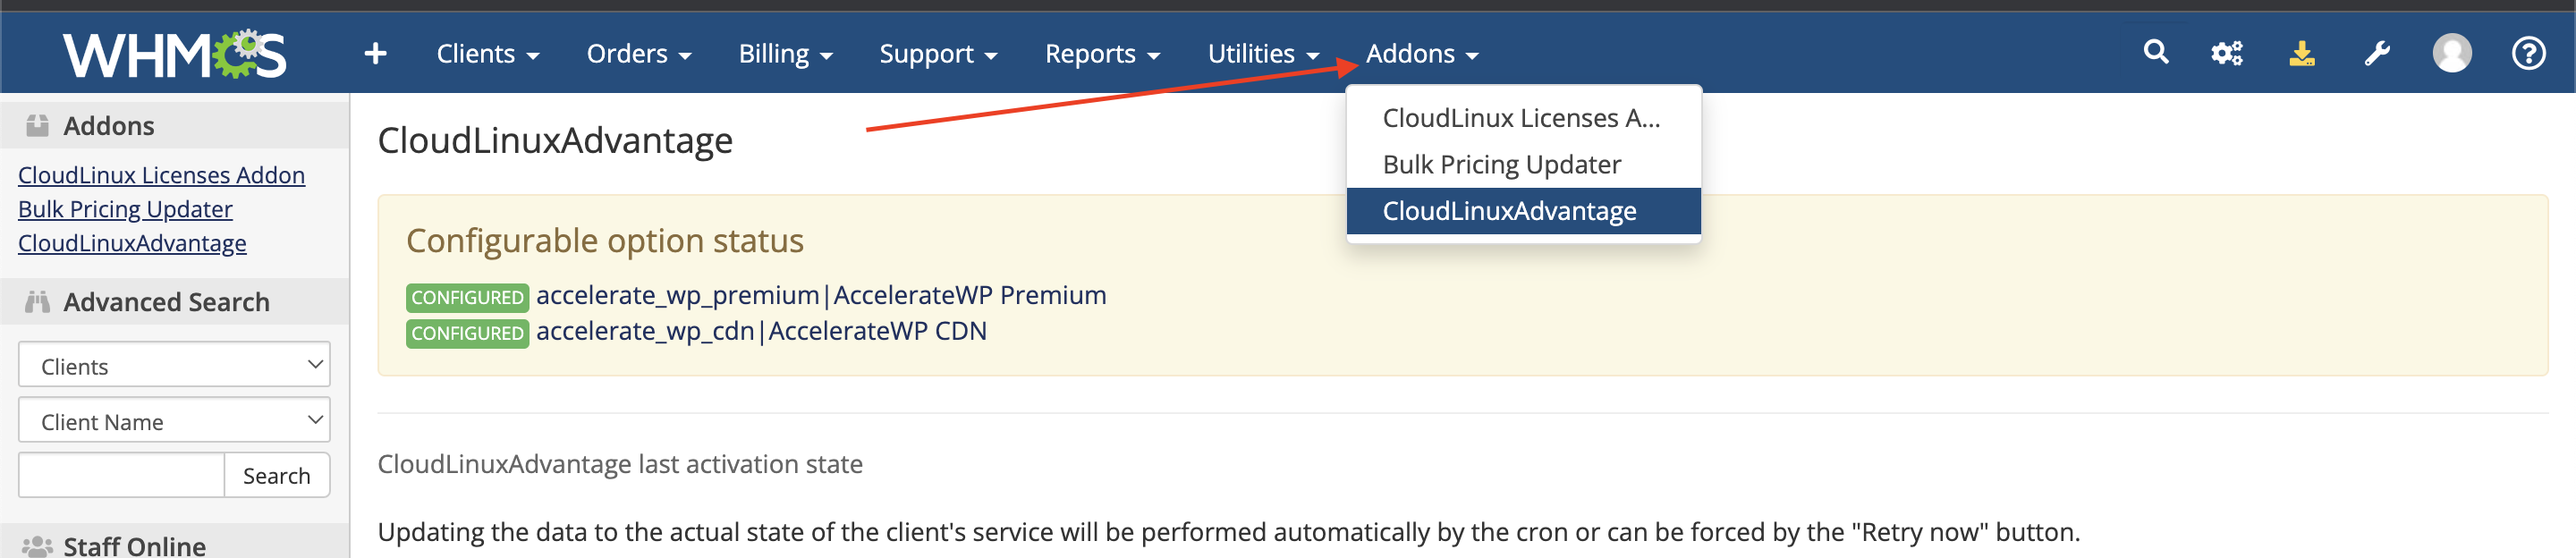
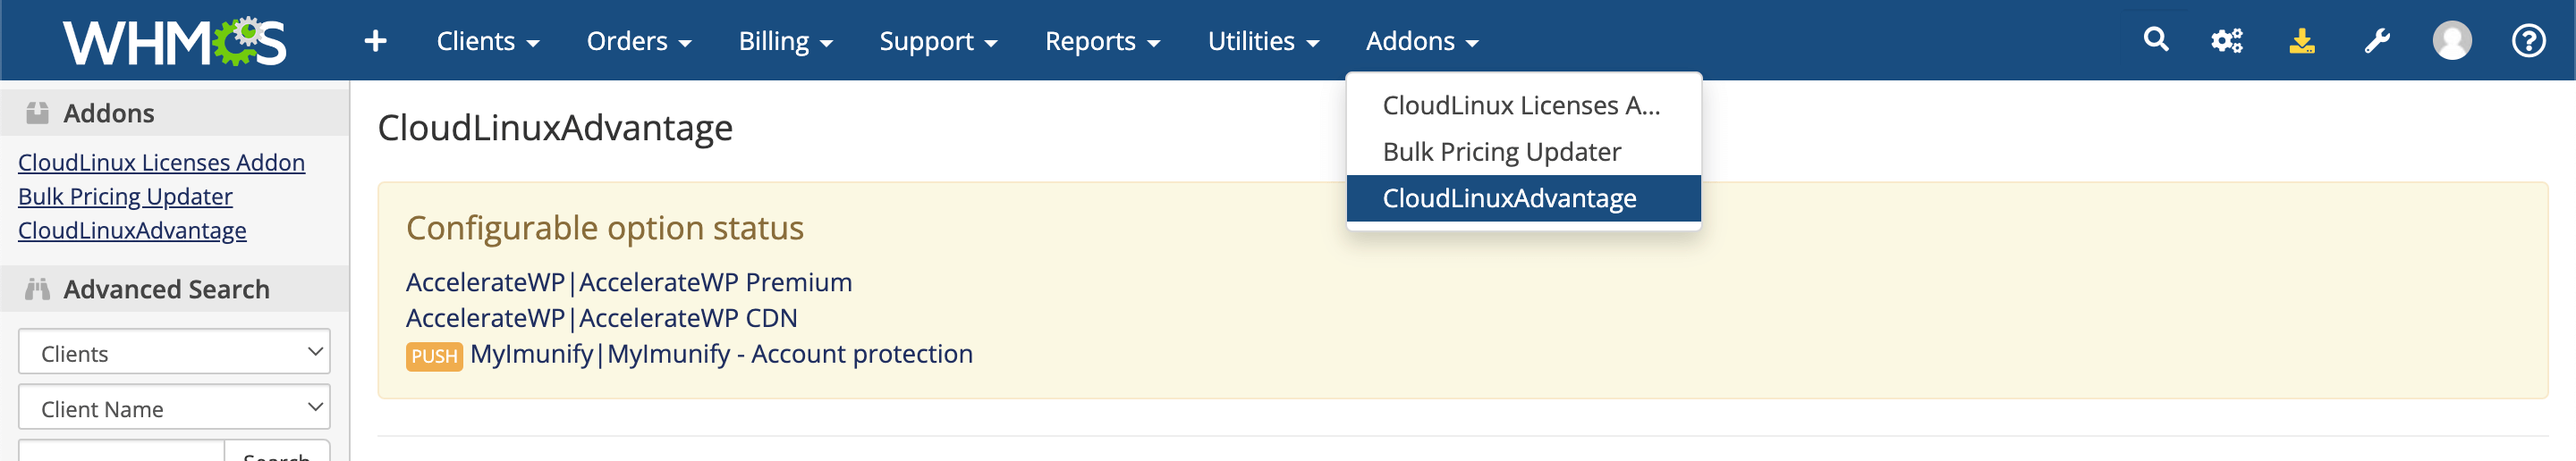
CloudLinux Advantage 0.0.3

diff --git a/docs/cln/whmcs_advantage/README.md b/docs/cln/whmcs_advantage/README.md
@@ -1,4 +1,4 @@
-# CloudLinux WHMCS AWP Plugin
+# CloudLinux Advantage
 
 ## Overview
 
@@ -88,7 +88,7 @@ Module page contains information about the state of active features
 
 ![](./images/whmcs-advantage-admin-addon-menu.png)
 
-In case the configurable options "AccelerateWP" were accidentally removed, you can re-install them on the CloudLinuxAdvantage settings page.
+In case the configurable options were accidentally removed, you can re-install them on the CloudLinuxAdvantage settings page.
 
 ![](./images/whmcs-advantage-admin-addon-page.png)
 
@@ -98,20 +98,27 @@ The table shows the queue and history of requests to the servers for which the A
 Deactivating the addon will delete the table with the history of AccelerateWP activity on the servers.
 :::
 
-| Column  | Description                                                                                                                                                                                                                                                                                               |
-|---------|-----------------------------------------------------------------------------------------------------------------------------------------------------------------------------------------------------------------------------------------------------------------------------------------------------------|
-| Service | What customer service does the zarpos refer to.                                                                                                                                                                                                                                                           |
+| Column  | Description                                                                                                                                                                                                                                                                                             |
+|---------|---------------------------------------------------------------------------------------------------------------------------------------------------------------------------------------------------------------------------------------------------------------------------------------------------------|
+| Service | What customer service does the zarpos refer to.                                                                                                                                                                                                                                                         |
 | Suite   | For which product the status will be changed.<br/>* Last status: previous status<br/> * Current status: current service status<br/>* Will set status: What status will be set. Depending on the selected configurable option "AccelerateWP" and the status of the users's service, the status may differ. |
-| Message | The last message about the operation. A detailed error may be displayed.                                                                                                                                                                                                                                  |
-| Queue   | Availability of a queue for executing a cron request                                                                                                                                                                                                                                                      |
-| Action  | Send request manually                                                                                                                                                                                                                                                                                     |
+| Message | The last message about the operation. A detailed error may be displayed.                                                                                                                                                                                                                                |
+| Queue   | Availability of a queue for executing a cron request                                                                                                                                                                                                                                                    |
+| Action  | Send request manually<br/>Delete log entry from module table                                                                                                                                                                                                                                            |
 
-An example of a request that will be executed by cron
+An example of sending requests to the server for selected options for the user.
+Each line is a report of sending a request to the server for each module that the user enabled or disabled.
+In case of an error, the response from the server will be displayed in the "Message" column. In this case, you need to fix the problem and manually start sending the request using the "Retry now" button.
+
 ![](./images/whmcs-advantage-admin-addon-page-example-cron.png)
 
-An example of a request that failed
-![](./images/whmcs-advantage-admin-addon-page-example-error.png)
+The "PUSH" button is displayed for "MyImunify - Account Protection" for a bulk operation to enable/disable the module on services for which the "MyImunify - Account Protection" option is linked.  
 
+By default, the first sorted sub-option for the "MyImunify - Account Protection" option will be sent to all users, and if the user has previously independently changed the sub-option for "MyImunify - Account Protection" using the WHMCS interface, his choice will be saved and also added to the request.  
+
+More details: [https://docs.imunify360.com/myimunify/#what-is-myimunify-for-hosting-admin](https://docs.imunify360.com/myimunify/#what-is-myimunify-for-hosting-admin)
+
+![](./images/whmcs-advantage-admin-addon-page-push-modal.png)
 
 ### FAQ
 
@@ -221,6 +228,10 @@ The Plesk extension is available since accelerate-wp-1.3-2 version
 
 ## Changelog
 
+* 0.0.3
+  * Added the ability to purchase [MyImunify - Account protection](https://docs.imunify360.com/myimunify/#what-is-myimunify-for-hosting-admin)
+  * Add the ability to bulk send the statuses of custom options "MyImunify - Account protection" to the servers
+
 * 0.0.2
   * Module renamed from Accelerate WP to CloudLinux Advantage
   * Added the ability to purchase AccelerateWP CDN
@@ -232,6 +243,9 @@ The Plesk extension is available since accelerate-wp-1.3-2 version
   * Beta release
 
 ## Requirements
+
+* 0.0.3
+  * Imunify360 ^7.4.0
 
 * 0.0.2
   * WHMCS ^8.0
